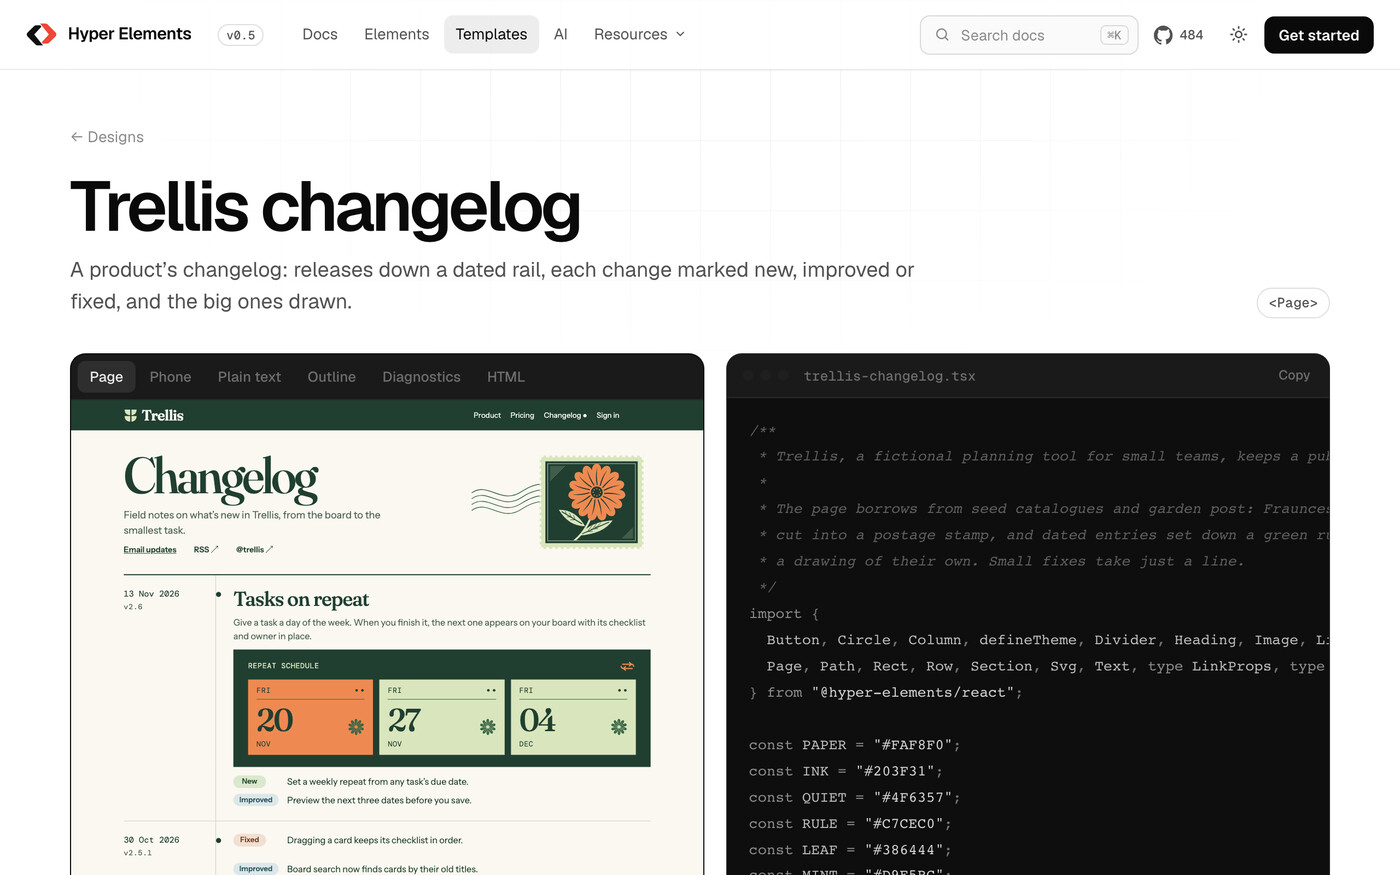
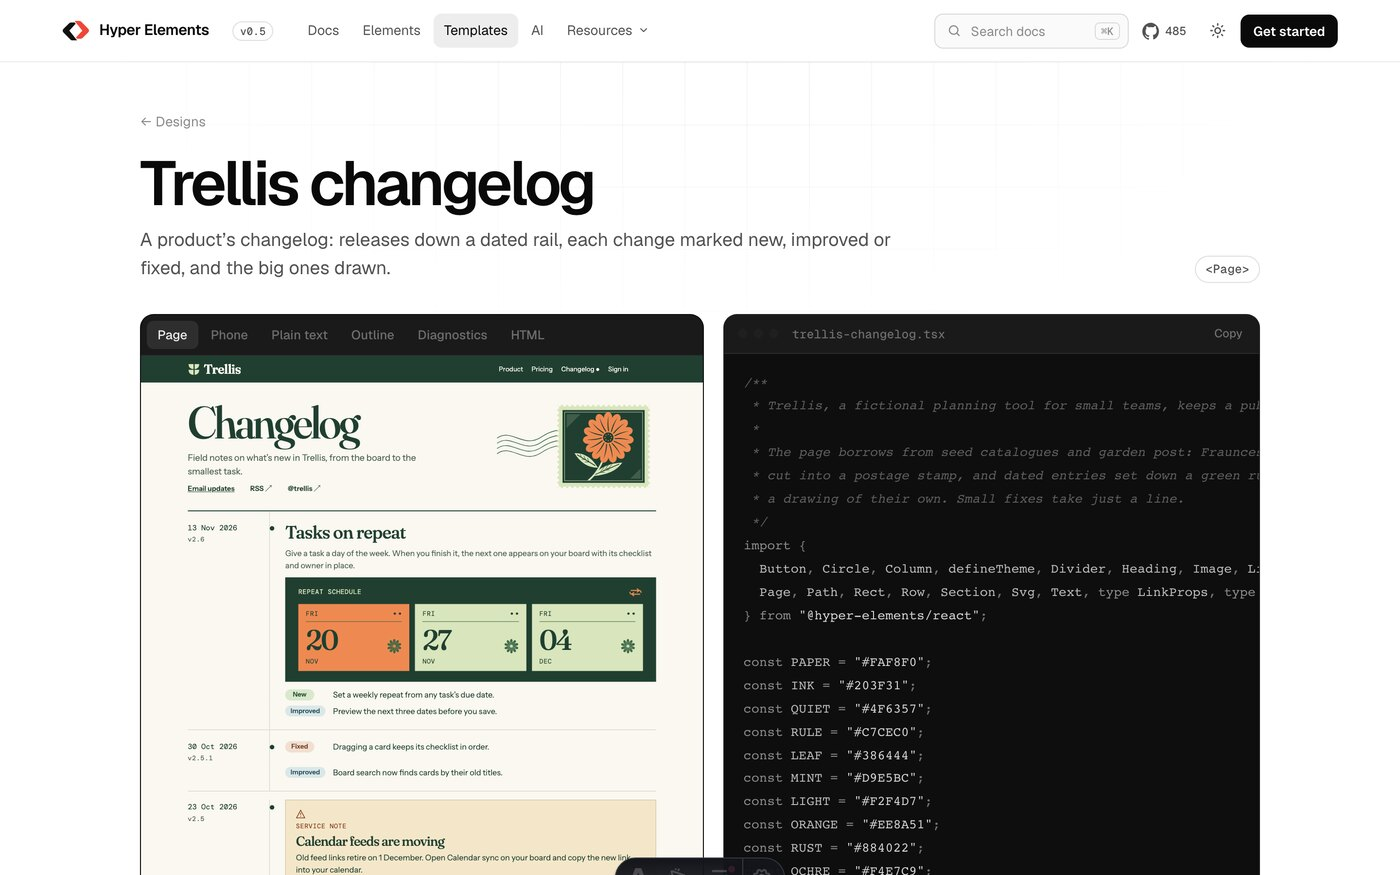
Gallery proof: rendered unchanged by the Hyper Elements site's own generator

diff --git a/README.md b/README.md
@@ -112,8 +112,8 @@ The full history covers six releases from 11 September to 13 November. The short
 Copy [`src/trellis-changelog.tsx`](src/trellis-changelog.tsx) to `apps/website/examples/templates/`. It has the gallery's `meta` and renders with no props.
 
 We tested exactly that: the file, unchanged, in a local clone of the Hyper Elements site, through the site's own
-generator (`pnpm generate`) and dev server. It rendered with no diagnostics, and appears on `/templates/trellis-changelog` like
-the official designs:
+generator (`pnpm generate`) and dev server. It rendered with no diagnostics, and appears on `/templates/trellis-changelog` beside the
+official designs:
 
 ![The design on its page in a local build of the Hyper Elements template gallery, with its preview and source.](docs/in-the-gallery.jpg)
 
